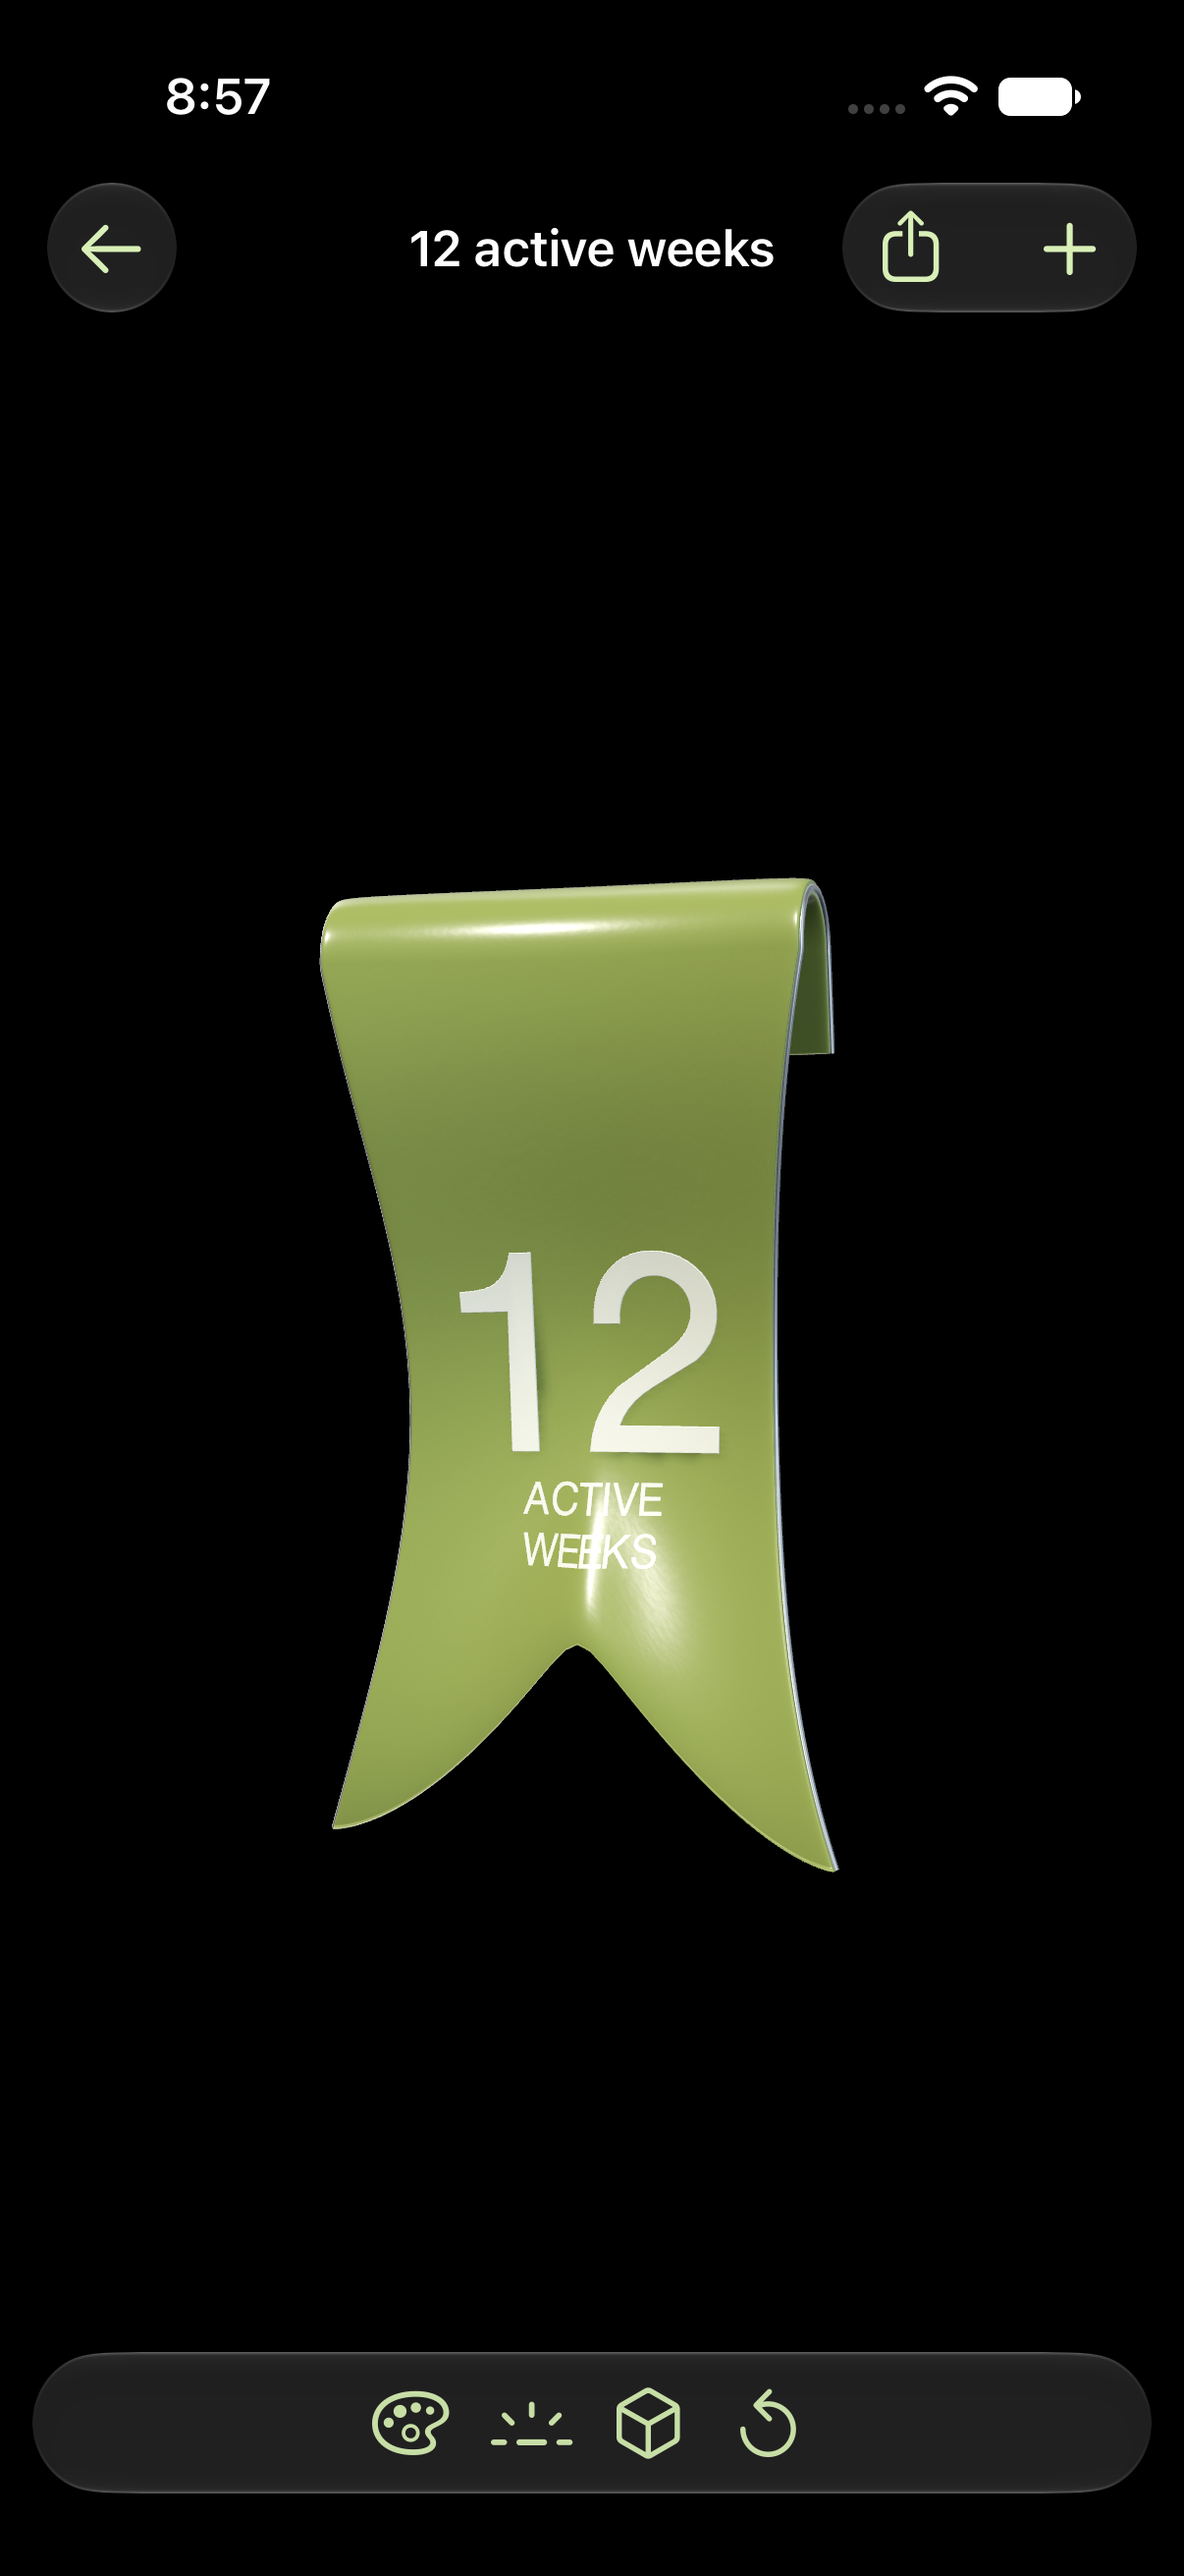
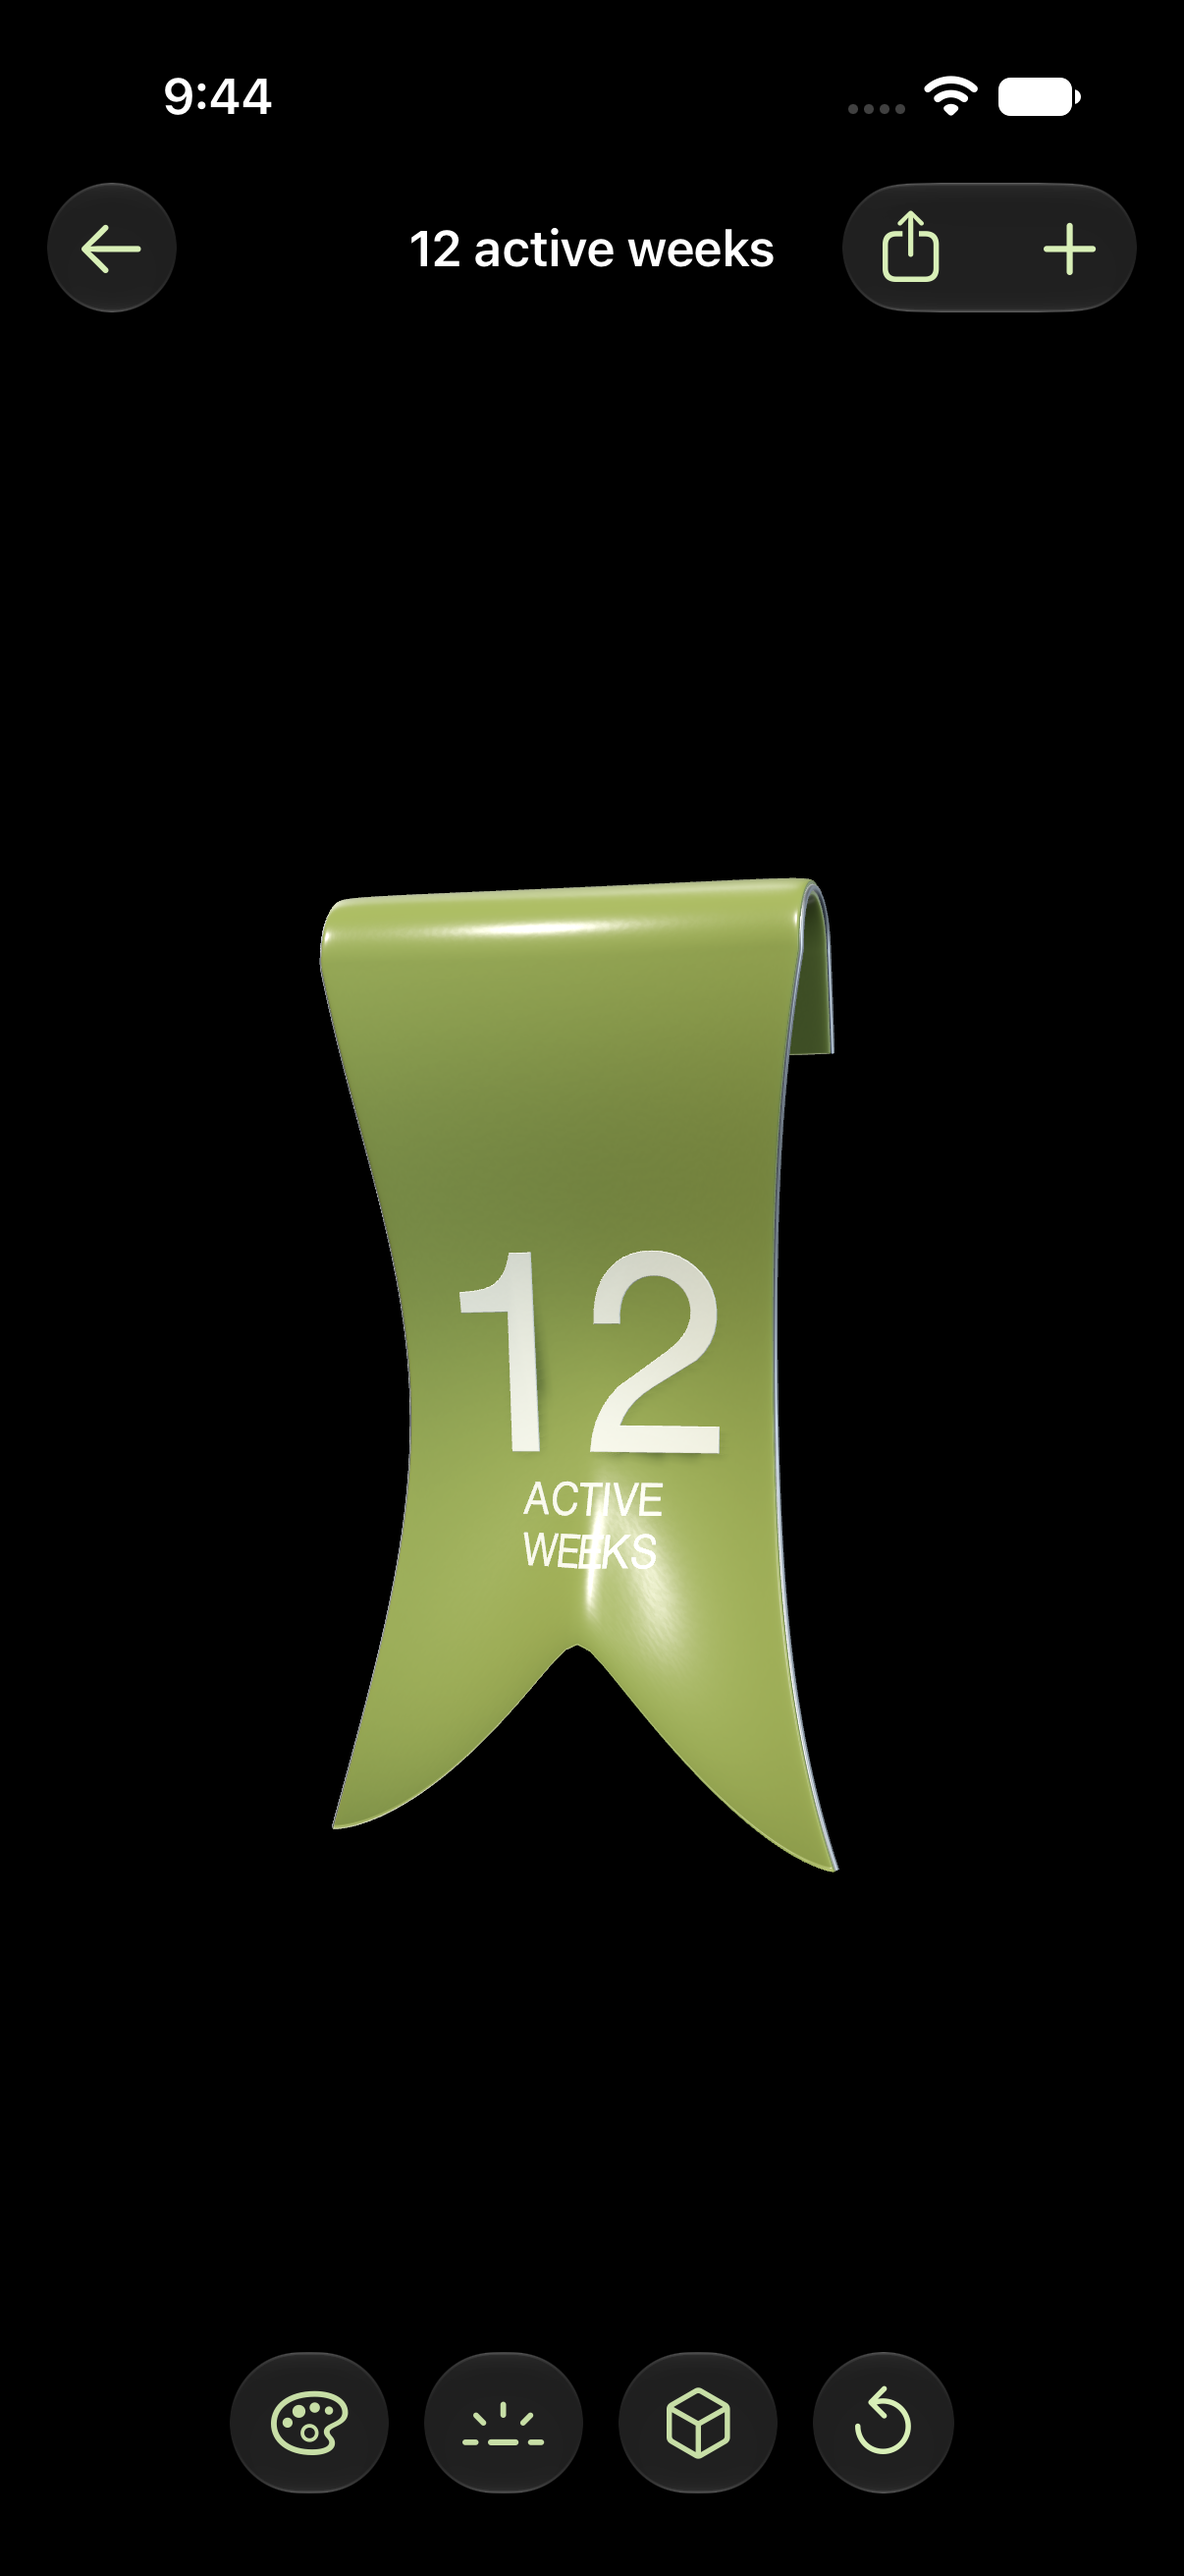
Separate studio tools into compact native glass controls

diff --git a/Sources/ElementStudioApp.swift b/Sources/ElementStudioApp.swift
@@ -53,13 +53,26 @@ struct StudioRoot: View {
     private func openLook(_ look: StudioLook) { selection = StudioSelection(settings: look.settings) }
 }
 
+private enum StudioTool: String, Identifiable {
+    case surface = "Surface", light = "Light", form = "Form"
+    var id: String { rawValue }
+    var symbol: String {
+        switch self {
+        case .surface: "paintpalette"
+        case .light: "light.max"
+        case .form: "cube"
+        }
+    }
+    var height: CGFloat { self == .light ? 240 : 300 }
+}
+
 struct StudioEditor: View {
     @Bindable var library: StudioLibrary
     let initial: ElementStudioSettings
     var startsInCollection = false
     @State private var settings = ElementStudioSettings()
     @State private var renderer = ElementStudioRenderer()
-    @State private var panel: String?
+    @State private var panel: StudioTool?
     @State private var saveSheet = false
     @State private var sharing = false
     @State private var shareImage: UIImage?
@@ -71,7 +84,6 @@ struct StudioEditor: View {
     @State private var pendingLook: StudioLook?
     @State private var pendingAction: String?
     @State private var ready = false
-    @State private var viewportSize = CGSize(width: 402, height: 760)
     @Namespace private var glass
     @Environment(\.colorScheme) private var colorScheme
     @AppStorage("studio.tilt") private var tiltEnabled = true
@@ -98,16 +110,27 @@ struct StudioEditor: View {
                 .background(Color(uiColor: ElementStudioRenderer.background))
             }
             .ignoresSafeArea(.container, edges: .bottom)
-            .onGeometryChange(for: CGSize.self) { $0.size } action: { viewportSize = $0 }
             .toolbar(editing ? .visible : .hidden, for: .bottomBar)
             .navigationTitle(editing ? settings.selectionName : "Collections").navigationBarTitleDisplayMode(.inline)
             .toolbar {
                 if editing {
+                    ToolbarSpacer(.flexible, placement: .bottomBar)
                     ToolbarItem(placement: .bottomBar) {
-                        toolDock(maxHeight: viewportSize.height * 0.43)
-                            .frame(width: min(540, max(280, viewportSize.width - 32)))
-                            .matchedTransitionSource(id: "studio-tools", in: glass)
+                        toolButton(.surface)
                     }
+                    ToolbarSpacer(.fixed, placement: .bottomBar)
+                    ToolbarItem(placement: .bottomBar) {
+                        toolButton(.light)
+                    }
+                    ToolbarSpacer(.fixed, placement: .bottomBar)
+                    ToolbarItem(placement: .bottomBar) {
+                        toolButton(.form)
+                    }
+                    ToolbarSpacer(.fixed, placement: .bottomBar)
+                    ToolbarItem(placement: .bottomBar) {
+                        resetButton.accessibilityHidden(panel != nil)
+                    }
+                    ToolbarSpacer(.flexible, placement: .bottomBar)
                     ToolbarItem(placement: .topBarLeading) {
                         Button("Close studio", systemImage: "arrow.left") {
                             panel = nil
@@ -160,9 +183,10 @@ struct StudioEditor: View {
         .onChange(of: collection) { _, value in renderer.showObjects(value?.objects) }
         .onChange(of: scenePhase, initial: true) { _, value in renderer.setActive(value == .active) }
         .onDisappear { renderer.setActive(false); library.persist() }
-        .sheet(isPresented: toolPresentation, onDismiss: {
+        .sheet(item: $panel, onDismiss: {
+            renderer.setControlInset(64)
             if let action = pendingAction { pendingAction = nil; performAfterTools(action) }
-        }) { toolControls }
+        }) { tool in toolControls(for: tool) }
         .sheet(isPresented: $newCollection) { CollectionEditor(library: library, collection: nil) }
         .sheet(isPresented: $editCollection) { CollectionEditor(library: library, collection: collection) }
         .confirmationDialog("Delete this collection? Saved looks will remain.", isPresented: $deleteCollection, titleVisibility: .visible) {
@@ -201,15 +225,12 @@ struct StudioEditor: View {
         var collection = value; collection.arrangement = .collection
         await renderer.load(collection)
     }
-    private func toolDock(maxHeight: CGFloat) -> some View {
-        HStack(spacing: 0) {
-            ForEach([("Surface", "paintpalette"), ("Light", "light.max"), ("Form", "cube")], id: \.0) { title, symbol in
-                Button { changeTool(title) } label: {
-                    Label(title, systemImage: symbol).frame(maxWidth: .infinity, minHeight: 44)
-                }.accessibilityIdentifier("panel-" + title)
-            }
-            resetButton
-        }.padding(4).accessibilityHidden(panel != nil)
+    private func toolButton(_ tool: StudioTool) -> some View {
+        Button(tool.rawValue, systemImage: tool.symbol) { changeTool(tool) }
+            .labelStyle(.iconOnly)
+            .frame(width: 44, height: 44)
+            .matchedTransitionSource(id: tool, in: glass)
+            .accessibilityIdentifier("panel-" + tool.rawValue)
     }
     private func performAfterTools(_ action: String) {
         if panel != nil { pendingAction = action; changeTool(nil); return }
@@ -220,25 +241,22 @@ struct StudioEditor: View {
             catch { library.message = error.localizedDescription; sharing = false }
         }
     }
-    private var toolPresentation: Binding<Bool> {
-        Binding(get: { panel != nil }, set: { if !$0 { changeTool(nil) } })
-    }
-    private var toolControls: some View {
+    private func toolControls(for tool: StudioTool) -> some View {
         VStack(spacing: 12) {
             HStack {
                 Button("Tools", systemImage: "chevron.down") { changeTool(nil) }
                     .labelStyle(.iconOnly).frame(width: 44, height: 44).accessibilityIdentifier("all-tools")
                 Spacer()
-                Text(panel ?? "Surface").font(.headline)
+                Text(tool.rawValue).font(.headline)
                 Spacer()
                 resetButton
             }
-            ScrollView { StudioInspector(settings: $settings, renderer: renderer, panel: panel ?? "Surface").padding(.bottom, 8) }
+            ScrollView { StudioInspector(settings: $settings, renderer: renderer, panel: tool.rawValue).padding(.bottom, 8) }
         }.padding(.horizontal, 20).padding(.top, 12)
-        .presentationDetents([.height(panel == "Light" ? 240 : 300)])
+        .presentationDetents([.height(tool.height)])
         .presentationDragIndicator(.hidden)
         .presentationBackgroundInteraction(.enabled)
-        .navigationTransition(.zoom(sourceID: "studio-tools", in: glass))
+        .navigationTransition(.zoom(sourceID: tool, in: glass))
     }
     private var resetButton: some View {
         Button("Reset edits", systemImage: "arrow.counterclockwise") {
@@ -251,8 +269,8 @@ struct StudioEditor: View {
             renderer.resetObject()
         }.labelStyle(.iconOnly).frame(width: 44, height: 44).accessibilityIdentifier("reset-object")
     }
-    private func changeTool(_ value: String?) {
-        renderer.setControlInset(value == nil ? 64 : value == "Light" ? 272 : 332)
+    private func changeTool(_ value: StudioTool?) {
+        renderer.setControlInset(value.map { $0.height + 32 } ?? 64)
         panel = value
     }
 }

diff --git a/UITests/StudioFlowTests.swift b/UITests/StudioFlowTests.swift
@@ -40,7 +40,7 @@ import XCTest
         XCTAssertEqual(app.sliders.count, 2)
         XCTAssertFalse(app.staticTexts["Design edition"].exists)
         XCTAssertFalse(app.staticTexts["Preparing element"].exists)
-        XCTAssertFalse(app.buttons["panel-Light"].exists, "The tool bar should become the control surface")
+        XCTAssertTrue(app.staticTexts["Surface"].exists, "Expanded controls must identify the selected tool")
         capture("Surface dock")
         app.sliders["Texture"].adjust(toNormalizedSliderPosition: 0.25)
         app.buttons["all-tools"].tap()

diff --git a/Documentation/REVIEW.md b/Documentation/REVIEW.md
@@ -6,11 +6,15 @@ Verified from this independent checkout using the ElementStudio scheme on the de
 - 2 UI tests passed: real pinch gestures stop at minimum zoom and enlarge the scene; all 16 objects open and rotate; Surface/Light/Form controls work; Reset restores edited lighting; Share produces a clean image; a saved look survives relaunch; native toolbar and dark mode work; dragging the object above expanded controls changes its orientation without dismissing the controls.
 - Actual screenshots were reviewed in light and dark, including the collection, compact toolbar, expanded controls, rotated shapes, and share preview. Selected captures are saved alongside this note.
 
+## Separate toolbar controls follow-up
+
+The two simulator UI flows were rerun after separating the toolbar controls and passed with zero failures (133.9 seconds, `SeparateToolsVerification.xcresult`). This includes Surface → Light → Reset → Form, Share, Save/relaunch, every object, and dark-mode rotation above expanded controls. The dark toolbar capture has been refreshed from this passing run. The earlier unit results above remain the baseline; camera, library and geometry code did not change in this follow-up.
+
 ## Interaction design
 
 The full collection is the minimum 1× view. At that scale the camera cannot pan beyond the content. Pinch follows its finger anchor; at higher magnification, pan stops at the visible content edges. Focus transitions interpolate projected position and logarithmic distance, with eased endpoints, so an object opens directly from its collection position. Closing restores the collection camera.
 
-The bottom bar is an official SwiftUI bottomBar toolbar. Native partial-height controls use a zoom transition sourced from that toolbar and allow interaction with the viewport above them. This avoids trying to stretch a fixed-height toolbar beyond its supported bounds. Reset is available in both compact and expanded states. Saved looks remain separate from workspace resets.
+The bottom bar is an official SwiftUI bottomBar toolbar. Surface, Light, Form and Reset each have their own native glass background, separated with fixed toolbar spacers and centered with flexible outer spacers. There is no full-width custom container. Native partial-height controls zoom from the selected tool’s button and return to that same button on dismissal. Their content and detent remain stable throughout dismissal. They allow interaction with the viewport above them. Matched transition sources stay mounted during presentation; changing their accessibility visibility mid-transition left native buttons unresponsive after dismissal. The UI flow verifies the selected control title, real slider edits, and subsequent tool activation. This avoids trying to stretch a fixed-height toolbar beyond its supported bounds. Reset is available in both compact and expanded states. Saved looks remain separate from workspace resets.
 
 Repeated writes of unchanged RealityKit transforms/components and repeated construction of accessibility elements have been removed from gesture updates. Rendering remains event-driven when motion settles. A device still needs hands-on review to judge physical gyro feel; no device frame-rate measurement is claimed.
 

diff --git a/AGENTS.md b/AGENTS.md
@@ -6,7 +6,7 @@ This is the self-contained Element Studio iOS app. Scheme: `ElementStudio`. Bund
 - This is the canonical independent checkout. Run `xcodebuild -project ElementStudio.xcodeproj -scheme ElementStudio -derivedDataPath build`. No Daywake checkout or app data is required.
 - Use the dedicated Element Studio Interaction QA simulator for UI work; do not take over a simulator reviewing another app.
 - `project.yml` is the project-generation source; run xcodegen after adding targets or file groups.
-- The home screen is only the floating collection, with a top options menu. No search or bottom tab bar. Saved looks and collection management are in the menu. The editor is an in-place camera focus in the same persistent Metal view, never a per-object modal or fresh renderer. Its official `.bottomBar` toolbar expands into native controls with a zoom transition from the toolbar. Controls use a background-interactive partial-height sheet so the live viewport stays usable.
+- The home screen is only the floating collection, with a top options menu. No search or bottom tab bar. Saved looks and collection management are in the menu. The editor is an in-place camera focus in the same persistent Metal view, never a per-object modal or fresh renderer. Its official `.bottomBar` toolbar uses separate, content-sized native glass buttons for Surface, Light, Form and Reset, centered with flexible outer spacers. Fixed toolbar spacers keep their glass backgrounds separate; never wrap them in a stretched custom HStack. Each tool expands into native controls with a zoom transition from its own button. Keep the selected tool and transition source stable through dismissal. Controls use a background-interactive partial-height sheet so the live viewport stays usable.
 - Appearance follows System, Light or Dark: pale gray in light mode, pure black in dark. Catalogue PNGs must be transparent.
 - Latest geometry is imported from the Daywake native studio. New forms points to preserved -forms20260910 assets so older looks retain their geometry.
 - Surface exposes only Finish, Texture and Color. Geometry editions remain a saved-data compatibility detail, not an editor picker.

diff --git a/README.md b/README.md
@@ -16,7 +16,7 @@ A standalone, native iOS studio for developing 3D elements, materials and Metal 
 - **Appearance:** follows System, with Light and Dark overrides in the top menu. Light uses a pale gray canvas; Dark uses pure black.
 - **Tilt with iPhone:** bounded, smoothed gyro movement is on by default. The top menu can disable it. Motion stops in the background and with Reduce Motion.
 - **Open an element:** tap it to move the camera directly toward that same live object. The scene stays alive; there is no intermediate screen, automatic spin, or per-object preparation message. Back restores the collection's zoom and position. Reduce Motion skips the camera flight.
-- **Bottom tools:** Surface, Light and Form use the official bottom toolbar, placed near the home indicator. Selecting one opens native controls with a zoom transition from the toolbar. The downward chevron collapses them; the live viewport remains usable above the controls.
+- **Bottom tools:** Surface, Light and Form each have their own native glass button, with Reset separate beside them. The centered controls fit their contents near the home indicator. Selecting a tool opens native controls with a zoom transition from that specific button. The downward chevron collapses them; the live viewport remains usable above the controls.
 - **Reset edits:** the counterclockwise arrow restores the selected object’s original material, lighting, form and camera. Saved looks remain intact. Save (+) still stores a named version.
 - **Surface:** Finish, Texture and Color. Design editions, material types and shape-study selectors have been removed from the editing surface. Existing saved looks retain their original geometry and material settings.
 - **Light:** direction and brightness.
